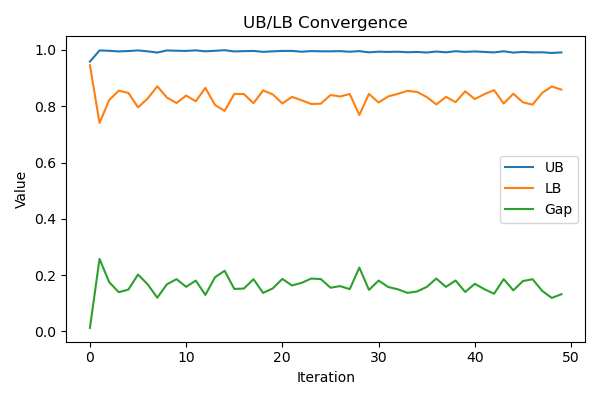
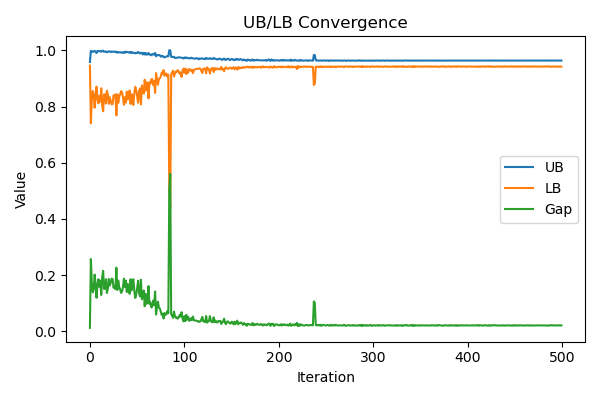
first iteration is always the best, added print lambda norm, need to check further after the first submission

diff --git a/precise_method_cartesian_fixed.py b/precise_method_cartesian_fixed.py
@@ -18,7 +18,8 @@ def find_worst_tsp_density_precise_fixed(region: SquareRegion, demands, t: float
     n = len(demands)
     UB, LB = np.inf, -np.inf
     lambdas_bar = np.zeros(n)
-    bound_value = min(region.side_length, 0.5)
+    # bound_value = min(region.side_length, 0.5)
+    bound_value = region.side_length * np.sqrt(2)
     # For convergence history
     ub_hist, lb_hist, gap_hist = [], [], []
     
@@ -46,6 +47,8 @@ def find_worst_tsp_density_precise_fixed(region: SquareRegion, demands, t: float
         
         try:
             lambdas_bar, _ = polyhedron.find_analytic_center_with_phase1(lambdas_bar)
+            print(f"  ||lambda|| = {np.linalg.norm(lambdas_bar):.6f}")
+            print(f"  sum(lambda) = {np.sum(lambdas_bar):.6e} (should be zero)")
             # demands_locations is fixed, do not update
             
             # --- Corrected Upper Bound Calculation ---
@@ -158,7 +161,7 @@ def minimize_problem14_cartesian_fixed(demands, lambdas, t, region):
 
     # For the constraint v0*h(x)+v1 >= delta, we find the minimum of h(x) first.
     min_dist_lambda = find_min_dist_lambda(demands_locations, lambdas, region)
-    delta = 1e-4
+    delta = 1e-6
     # No warning for negative min_dist_lambda; this is expected if any lambda_j > 0
 
     def objective(v):

diff --git a/robustness_test.py b/robustness_test.py
@@ -45,7 +45,7 @@ def run_test(num_demands, num_random_v=5, plot_results=False):
 
     # Run precise method and get parameters and history
     density_func, demands_locations, lambdas_opt, v_tilde_opt, history = find_worst_tsp_density_precise_fixed(
-        region, demands, t=t, epsilon=1e-2, max_iterations=50, tol=1e-5, return_params=True, return_history=True
+        region, demands, t=t, epsilon=1e-2, max_iterations=500, tol=1e-5, return_params=True, return_history=True
     )
     solve_time = time.time() - start_time
 
@@ -124,7 +124,7 @@ def main():
     print("============================================================")
     print("ROBUSTNESS & OPTIMALITY TEST FOR PRECISE METHOD")
     print("============================================================")
-    demand_points_to_test = [5]
+    demand_points_to_test = [10]
     results = {}
     for idx, num_demands in enumerate(demand_points_to_test):
         result = run_test(num_demands, plot_results=True)
